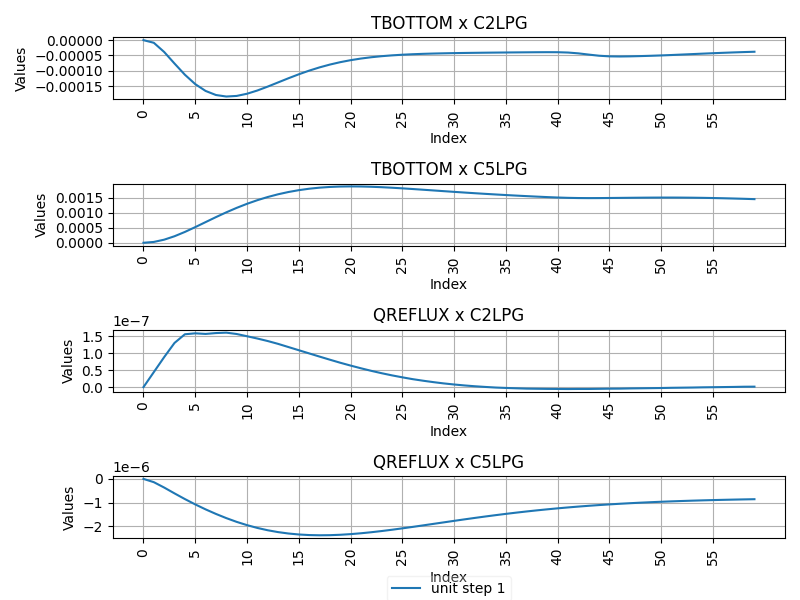
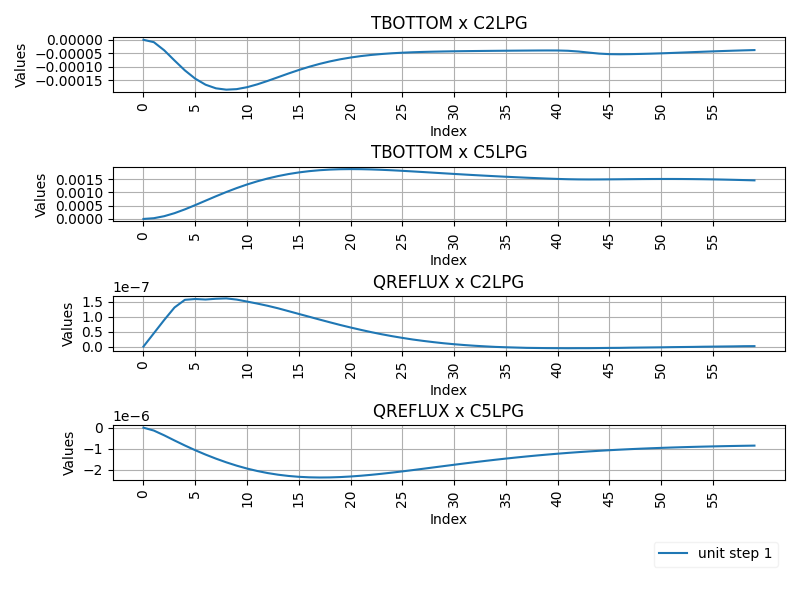
legend corrected

diff --git a/src/StepCalc.py b/src/StepCalc.py
@@ -68,5 +68,6 @@ def plot_and_save(dataframe, figsize, xticks_increment, y_num_bins, fig_name, da
             axs[i].plot(dataframe2.index, dataframe2[column], label='unit step 2')
 
     plt.tight_layout()  # Adjust layout to not overlap subplots
-    axs[-1].legend(loc='upper center', bbox_to_anchor=(0.5, -0.5), framealpha=0.25)
+    fig.subplots_adjust(bottom=0.2)  # Adjust the space at the bottom of the figure
+    axs[-1].legend(loc='upper right', bbox_to_anchor=(1, -1), framealpha=0.25)
     plt.savefig(f'figures/{fig_name}.png')
